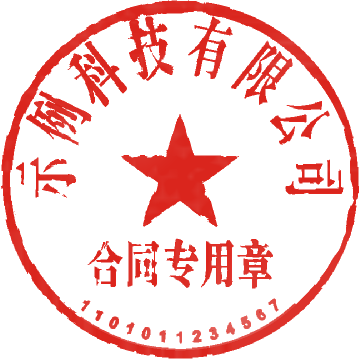
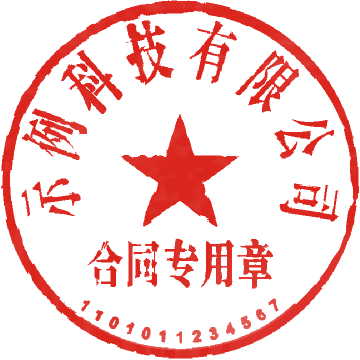
同步新参数样张与截图，样张加缓存版本
- 12 张样张与付费版一致，manifest 8 条可用、4 条禁用
- 页面样张 URL 加 ?v=2
- 封面与截图重截

Changed region(s): [[0.0306, 0.0306, 0.4889, 0.6111], [0.6417, 0.1222, 0.9778, 0.6111], [0.5194, 0.0306, 0.6722, 0.2444]]

diff --git a/index.html b/index.html
@@ -115,56 +115,56 @@
       <div class="variants" id="comboGallery" role="group" aria-label="模板与质感">
         <div class="opt-slot">
           <button type="button" class="opt" data-preset="standard" data-look="clean" aria-pressed="false" aria-disabled="true" disabled title="公章 · 标准（完整版提供）">
-            <img class="opt-img" src="./assets/samples/standard-clean.png" width="360" height="360" alt="" data-sample-profile="standard" data-sample-look="clean" data-src-off="./assets/samples/standard-clean.png" data-src-on="./assets/samples/standard-clean.png">
+            <img class="opt-img" src="./assets/samples/standard-clean.png?v=2" width="360" height="360" alt="" data-sample-profile="standard" data-sample-look="clean" data-src-off="./assets/samples/standard-clean.png?v=2" data-src-on="./assets/samples/standard-clean.png?v=2">
             <span class="opt-label">公章 · 标准</span>
             <span class="opt-lock">完整版</span>
           </button>
         </div>
         <div class="opt-slot">
           <button type="button" class="opt" data-preset="contract" data-look="clean" aria-pressed="false" title="合同专用章 · 标准">
-            <img class="opt-img" src="./assets/samples/contract-clean.png" width="360" height="360" alt="" data-sample-profile="contract" data-sample-look="clean" data-src-off="./assets/samples/contract-clean.png" data-src-on="./assets/samples/contract-clean-star.png">
+            <img class="opt-img" src="./assets/samples/contract-clean.png?v=2" width="360" height="360" alt="" data-sample-profile="contract" data-sample-look="clean" data-src-off="./assets/samples/contract-clean.png?v=2" data-src-on="./assets/samples/contract-clean-star.png?v=2">
             <span class="opt-label">合同专用章 · 标准</span>
           </button>
           <button type="button" class="star-badge" data-star-for="contract" aria-pressed="false" aria-label="合同专用章 · 标准带不带五角星" title="带不带五角星">★</button>
         </div>
         <div class="opt-slot">
           <button type="button" class="opt" data-preset="finance" data-look="clean" aria-pressed="false" title="财务专用章 · 标准">
-            <img class="opt-img" src="./assets/samples/finance-clean.png" width="360" height="360" alt="" data-sample-profile="finance" data-sample-look="clean" data-src-off="./assets/samples/finance-clean.png" data-src-on="./assets/samples/finance-clean-star.png">
+            <img class="opt-img" src="./assets/samples/finance-clean.png?v=2" width="360" height="360" alt="" data-sample-profile="finance" data-sample-look="clean" data-src-off="./assets/samples/finance-clean.png?v=2" data-src-on="./assets/samples/finance-clean-star.png?v=2">
             <span class="opt-label">财务专用章 · 标准</span>
           </button>
           <button type="button" class="star-badge" data-star-for="finance" aria-pressed="false" aria-label="财务专用章 · 标准带不带五角星" title="带不带五角星">★</button>
         </div>
         <div class="opt-slot">
           <button type="button" class="opt" data-preset="twoline" data-look="clean" aria-pressed="false" aria-disabled="true" disabled title="两行专用章 · 标准（完整版提供）">
-            <img class="opt-img" src="./assets/samples/twoline-clean.png" width="360" height="360" alt="" data-sample-profile="twoline" data-sample-look="clean" data-src-off="./assets/samples/twoline-clean.png" data-src-on="./assets/samples/twoline-clean.png">
+            <img class="opt-img" src="./assets/samples/twoline-clean.png?v=2" width="360" height="360" alt="" data-sample-profile="twoline" data-sample-look="clean" data-src-off="./assets/samples/twoline-clean.png?v=2" data-src-on="./assets/samples/twoline-clean.png?v=2">
             <span class="opt-label">两行专用章 · 标准</span>
             <span class="opt-lock">完整版</span>
           </button>
         </div>
         <div class="opt-slot">
           <button type="button" class="opt" data-preset="standard" data-look="fresh" aria-pressed="false" aria-disabled="true" disabled title="公章 · 实盖扫描（完整版提供）">
-            <img class="opt-img" src="./assets/samples/standard-fresh.png" width="360" height="360" alt="" data-sample-profile="standard" data-sample-look="fresh" data-src-off="./assets/samples/standard-fresh.png" data-src-on="./assets/samples/standard-fresh.png">
+            <img class="opt-img" src="./assets/samples/standard-fresh.png?v=2" width="360" height="360" alt="" data-sample-profile="standard" data-sample-look="fresh" data-src-off="./assets/samples/standard-fresh.png?v=2" data-src-on="./assets/samples/standard-fresh.png?v=2">
             <span class="opt-label">公章 · 实盖扫描</span>
             <span class="opt-lock">完整版</span>
           </button>
         </div>
         <div class="opt-slot">
           <button type="button" class="opt is-on" data-preset="contract" data-look="fresh" aria-pressed="true" title="合同专用章 · 实盖扫描">
-            <img class="opt-img" src="./assets/samples/contract-fresh.png" width="360" height="360" alt="" data-sample-profile="contract" data-sample-look="fresh" data-src-off="./assets/samples/contract-fresh.png" data-src-on="./assets/samples/contract-fresh-star.png">
+            <img class="opt-img" src="./assets/samples/contract-fresh.png?v=2" width="360" height="360" alt="" data-sample-profile="contract" data-sample-look="fresh" data-src-off="./assets/samples/contract-fresh.png?v=2" data-src-on="./assets/samples/contract-fresh-star.png?v=2">
             <span class="opt-label">合同专用章 · 实盖扫描</span>
           </button>
           <button type="button" class="star-badge" data-star-for="contract" aria-pressed="false" aria-label="合同专用章 · 实盖扫描带不带五角星" title="带不带五角星">★</button>
         </div>
         <div class="opt-slot">
           <button type="button" class="opt" data-preset="finance" data-look="fresh" aria-pressed="false" title="财务专用章 · 实盖扫描">
-            <img class="opt-img" src="./assets/samples/finance-fresh.png" width="360" height="360" alt="" data-sample-profile="finance" data-sample-look="fresh" data-src-off="./assets/samples/finance-fresh.png" data-src-on="./assets/samples/finance-fresh-star.png">
+            <img class="opt-img" src="./assets/samples/finance-fresh.png?v=2" width="360" height="360" alt="" data-sample-profile="finance" data-sample-look="fresh" data-src-off="./assets/samples/finance-fresh.png?v=2" data-src-on="./assets/samples/finance-fresh-star.png?v=2">
             <span class="opt-label">财务专用章 · 实盖扫描</span>
           </button>
           <button type="button" class="star-badge" data-star-for="finance" aria-pressed="false" aria-label="财务专用章 · 实盖扫描带不带五角星" title="带不带五角星">★</button>
         </div>
         <div class="opt-slot">
           <button type="button" class="opt" data-preset="twoline" data-look="fresh" aria-pressed="false" aria-disabled="true" disabled title="两行专用章 · 实盖扫描（完整版提供）">
-            <img class="opt-img" src="./assets/samples/twoline-fresh.png" width="360" height="360" alt="" data-sample-profile="twoline" data-sample-look="fresh" data-src-off="./assets/samples/twoline-fresh.png" data-src-on="./assets/samples/twoline-fresh.png">
+            <img class="opt-img" src="./assets/samples/twoline-fresh.png?v=2" width="360" height="360" alt="" data-sample-profile="twoline" data-sample-look="fresh" data-src-off="./assets/samples/twoline-fresh.png?v=2" data-src-on="./assets/samples/twoline-fresh.png?v=2">
             <span class="opt-label">两行专用章 · 实盖扫描</span>
             <span class="opt-lock">完整版</span>
           </button>
